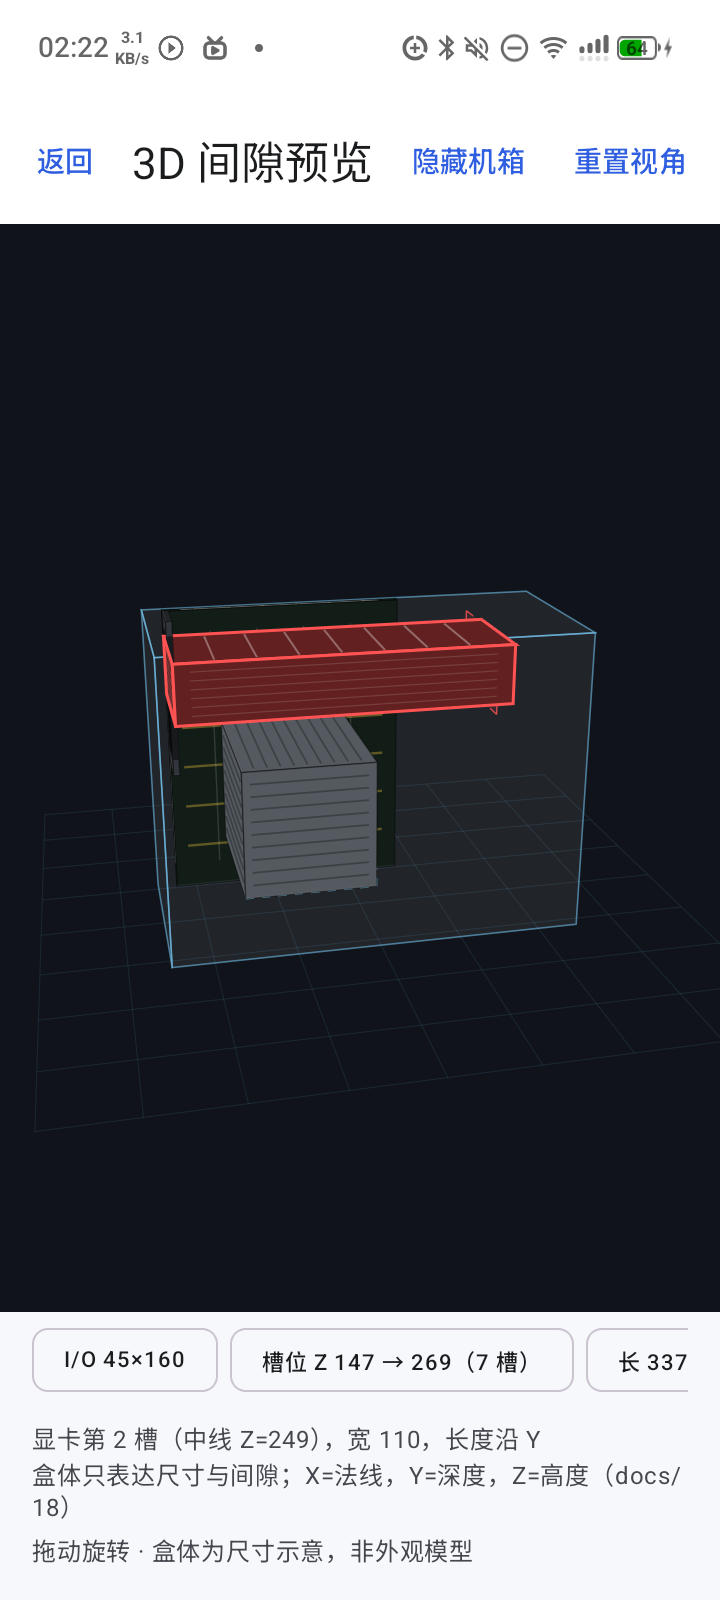
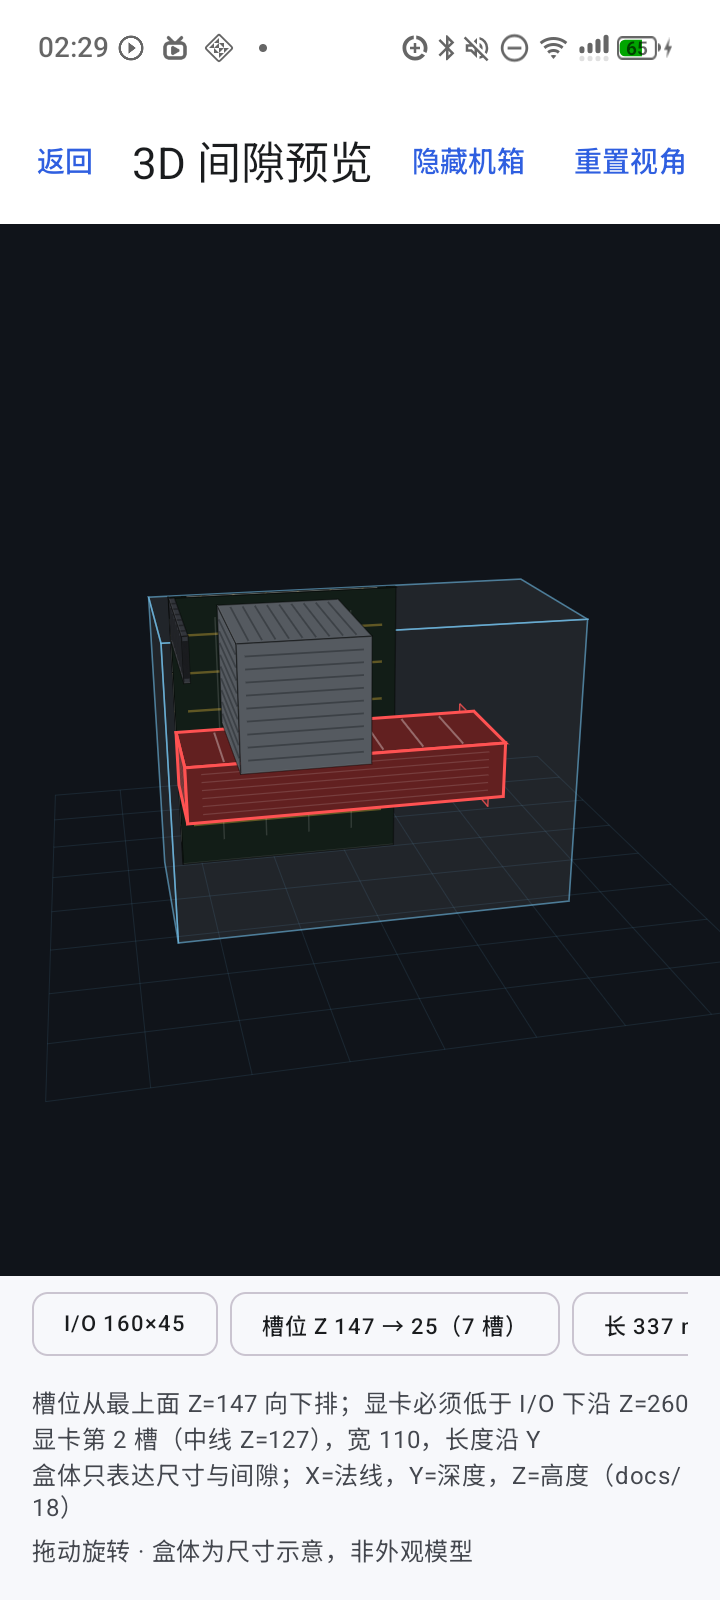
fix(viz): put PCIe slots below IO and place CPU cooler at board top
IO was 160 tall with slots running upward, so the GPU overlapped the rear IO. Slots now start at Z=147 and go downward; IO is 160x45 at the board top; GPU top is 157 < IO bottom 260. Moves the cooler to the upper board area instead of near the bottom.

diff --git a/ui/src/test/kotlin/pcbuildmate/ui/preview/Scene3dTest.kt b/ui/src/test/kotlin/pcbuildmate/ui/preview/Scene3dTest.kt
@@ -33,9 +33,9 @@ class Scene3dTest {
         val io = scene.boxes.first { it.style == BoxStyle.IO }
         val board = scene.boxes.first { it.style == BoxStyle.BOARD }
 
-        assertEquals(45f, io.size.x, 0.01f, "沿 X 伸出 45")
+        assertEquals(160f, io.size.x, 0.01f, "沿 X 宽 160")
         assertEquals(6f, io.size.y, 0.01f, "Y 厚 6（板面内，故垂直于板）")
-        assertEquals(160f, io.size.z, 0.01f, "Z 高 160")
+        assertEquals(45f, io.size.z, 0.01f, "Z 高 45")
         assertEquals(305f, io.max.z, 0.01f, "与板上沿对齐")
         assertEquals(board.max.x, io.min.x, 0.01f, "从板面起")
     }
@@ -55,10 +55,10 @@ class Scene3dTest {
     fun `gpu sits at the second slot centerline`() {
         val scene = assertNotNull(SceneBuilder.build(revisionWith(gpu = "337", case = "320"), catalogue()))
         val gpu = scene.boxes.first { it.style == BoxStyle.GPU }
-        val expected = SceneBuilder.LAST_SLOT_Z_MM + (SceneBuilder.SLOT_GRID - 2) * SceneBuilder.SLOT_PITCH_MM
+        val expected = SceneBuilder.LAST_SLOT_Z_MM - SceneBuilder.SLOT_PITCH_MM
 
         assertEquals(expected, (gpu.min.z + gpu.max.z) / 2f, 0.01f)
-        assertEquals(248.60f, expected, 0.01f)
+        assertEquals(126.68f, expected, 0.01f)
     }
 
     @Test
@@ -70,10 +70,19 @@ class Scene3dTest {
         val gpu = scene.boxes.first { it.style == BoxStyle.GPU }
 
         assertEquals(170f, board.size.z, 0.01f, "ITX 板高 170")
-        val slot1 = SceneBuilder.LAST_SLOT_Z_MM + (SceneBuilder.SLOT_GRID - 1) * SceneBuilder.SLOT_PITCH_MM
-        assertEquals(268.92f, slot1, 0.01f)
-        assertEquals(slot1, (gpu.min.z + gpu.max.z) / 2f, 0.01f)
-        assertTrue(gpu.max.z > board.max.z, "允许显卡高过 ITX 板顶，不 clamp")
+        val slot1 = SceneBuilder.LAST_SLOT_Z_MM
+        assertEquals(147f, slot1, 0.01f)
+        assertEquals(147f, (gpu.min.z + gpu.max.z) / 2f, 0.01f)
+        assertTrue(gpu.max.z > board.max.z, "3 槽卡高出 170mm 板顶，不 clamp")
+    }
+
+    @Test
+    fun `gpu sits below the io bottom`() {
+        val scene = assertNotNull(SceneBuilder.build(revisionWith(gpu = "337", case = "320"), catalogue()))
+        val io = scene.boxes.first { it.style == BoxStyle.IO }
+        val gpu = scene.boxes.first { it.style == BoxStyle.GPU }
+
+        assertTrue(gpu.max.z < io.min.z, "显卡必须低于 I/O 下沿：gpu=${gpu.max.z}, io=${io.min.z}")
     }
 
     @Test
@@ -111,6 +120,7 @@ class Scene3dTest {
         val cooler = scene.boxes.first { it.style == BoxStyle.COOLER }
 
         assertEquals(160f, cooler.size.x, 0.01f)
+        assertTrue(cooler.min.z > 100f, "CPU 散热应在板上部，实际 ${cooler.min.z}")
         assertTrue(!cooler.conflict)
     }
 

diff --git a/ui/src/main/kotlin/pcbuildmate/ui/preview/Scene3d.kt b/ui/src/main/kotlin/pcbuildmate/ui/preview/Scene3d.kt
@@ -67,9 +67,9 @@ object SceneBuilder {
     const val SLOT_PITCH_MM = 20.32f
     const val LAST_SLOT_Z_MM = 147f
     const val SLOT_GRID = 7
-    const val IO_WIDTH_MM = 45f      // 沿 X（板法线方向伸出）
+    const val IO_WIDTH_MM = 160f     // 沿 X（板面横向）
     const val IO_THICKNESS_MM = 6f   // 沿 Y
-    const val IO_HEIGHT_MM = 160f    // 沿 Z，从板上沿往下
+    const val IO_HEIGHT_MM = 45f     // 沿 Z（板面上沿往下 45）
     const val GPU_WIDTH_MM = 110f    // 沿 X
     const val GPU_SLOT_INDEX = 2
 
@@ -107,7 +107,7 @@ object SceneBuilder {
             style = BoxStyle.BOARD,
         )
 
-        // I/O：从板上沿往下 160，沿 X 伸出 45，Y 厚 6（垂直于主板）
+        // I/O：贴板上沿，沿 X 宽 160，垂直板面厚 6，沿 Z 高 45
         boxes += Box3(
             id = "io",
             label = "后置 I/O",
@@ -117,15 +117,16 @@ object SceneBuilder {
         )
         labels += DimLabel("I/O ${fmt(IO_WIDTH_MM)}×${fmt(IO_HEIGHT_MM)}", Tone.MUTED)
 
-        // 槽位网格：最后一个槽 147，向上 20.32；板型只取上面 N 个
-        fun slotZ(k: Int): Float = LAST_SLOT_Z_MM + (SLOT_GRID - k) * SLOT_PITCH_MM
+        // 槽位网格：最上面一槽 147，向下每槽 20.32；板型只取上面 N 个
+        fun slotZ(k: Int): Float = LAST_SLOT_Z_MM - (k - 1) * SLOT_PITCH_MM
         val usedSlots = (1..slotCount).map { slotZ(it) }
         labels += DimLabel(
-            "槽位 Z ${fmt(usedSlots.last())} → ${fmt(usedSlots.first())}（$slotCount 槽）",
+            "槽位 Z ${fmt(usedSlots.first())} → ${fmt(usedSlots.last())}（$slotCount 槽）",
             Tone.MUTED,
         )
+        notes += "槽位从最上面 Z=${fmt(slotZ(1))} 向下排；显卡必须低于 I/O 下沿 Z=${fmt(boardHeight - IO_HEIGHT_MM)}"
         if (slotCount < SLOT_GRID) {
-            notes += "该板型只有 $slotCount 个槽位；ITX 的单槽位于 Z=${fmt(slotZ(1))}，允许超出 170mm 板高"
+            notes += "该板型只有 $slotCount 个槽位；ITX 单槽位于 Z=${fmt(slotZ(1))}"
         }
 
         // 显卡
@@ -174,9 +175,10 @@ object SceneBuilder {
         val coolerHeight = cooler?.num("heightMm")
         if (coolerHeight != null) {
             val overHeight = coolerHeight > caseCoolerHeight
-            val z0 = boardHeight - 250f
+            // CPU 散热在板上部（I/O 下方、Y 向前），高度沿 X
+            val z0 = boardHeight - 140f
             val z1 = z0 + 130f
-            val y0 = 55f
+            val y0 = 50f
             boxes += Box3(
                 id = "cooler",
                 label = "散热 ${cooler.text("model")}",

diff --git a/docs/18-3d-coordinates.md b/docs/18-3d-coordinates.md
@@ -20,8 +20,8 @@
 | 板厚 | 6（X -6..0） |
 | PCIe 槽距 | 20.32 |
 | 最后一槽中线 | **147** |
-| 槽位网格 | 7 格，`slot(k) = 147 + (7-k)×20.32` |
-| I/O | X 0..45，Y 0..6，Z 板上沿往下 160 |
+| 槽位网格 | 7 格，**从最上面 Z=147 向下**：`slot(k) = 147 - (k-1)×20.32` |
+| I/O | X 0..160（宽），Y 0..6（厚），Z 板上沿往下 45（高） |
 | 显卡宽（X） | 110 |
 | 机箱上沿 | = 主板上沿 |
 
@@ -29,29 +29,30 @@
 
 | 板型 | 高 Z | 深 Y | 槽数 | 取的槽 |
 |---|---:|---:|---:|---|
-| ATX | 305 | 244 | 7 | 268.92 → 147.00 |
-| mATX | 244 | 244 | 4 | 207.96 → 147.00 |
-| ITX | 170 | 170 | 1 | **268.92**（高出板顶 98.92，允许 Z 为负/出板，不 clamp） |
+| ATX | 305 | 244 | 7 | 147.00 → 25.08 |
+| mATX | 244 | 244 | 4 | 147.00 → 86.04 |
+| ITX | 170 | 170 | 1 | **147.00**（3 槽卡会高出 170 板顶，允许，不 clamp） |
 
 ## 18.4 起止坐标（ATX，337mm 卡，第 2 槽）
 
 | 对象 | X | Y | Z |
 |---|---|---|---|
 | 主板 | -6 → 0 | 0 → 244 | 0 → 305 |
-| 后置 I/O | 0 → 45 | 0 → 6 | 145 → 305 |
-| 第 1 槽中线 | — | — | 268.92 |
-| 第 2 槽中线 | — | — | 248.60 |
-| 337mm 显卡（3 槽） | 0 → 110 | 0 → 337 | 218.28 → 278.92 |
-| 机箱限长面 | 0 → 110 | 320 | 218.28 → 278.92 |
-| 160mm 散热 | 0 → 160 | 55 → 185 | 55 → 185 |
-| 侧板限高面 | 160 | 55 → 185 | 55 → 185 |
+| 后置 I/O | 0 → 160 | 0 → 6 | 260 → 305 |
+| 第 1 槽中线 | — | — | 147.00 |
+| 第 2 槽中线 | — | — | 126.68 |
+| 337mm 显卡（3 槽） | 0 → 110 | 0 → 337 | 96.18 → 157.18 |
+| 机箱限长面 | 0 → 110 | 320 | 96.18 → 157.18 |
+| 160mm 散热 | 0 → 160 | 50 → 180 | 165 → 295 |
+| 侧板限高面 | 160 | 50 → 180 | 165 → 295 |
 | 机箱允许空间 | -10 → 180 | -20 → 390 | 0 → 305（上沿对齐） |
 
 ## 18.5 规则
 
 - 机箱默认透明（ghost），可隐藏；
 - 限制面半透明 + 虚线，超出变红；
-- ITX 单槽在顶部网格位置，显卡可以高出板顶，不 clamp；
+- 槽位从 147 向下排，GPU 必须低于 I/O 下沿 260；实测 GPU 顶 157.18；
+- ITX 单槽在 147，3 槽卡高出 170 板顶，不 clamp；
 - 纹理用面内双线性映射，不做风扇贴图；
 - 机箱上沿 = 主板上沿，I/O 左上角与板上沿对齐。
 

diff --git a/docs/17-3d-preview.md b/docs/17-3d-preview.md
@@ -46,7 +46,7 @@
 | 盒体 | 尺寸（X 法线 / Y 深度 / Z 高） | 数据 | 可隐藏 |
 |---|---|---|---|
 | 主板 | 6 × 244 × 305（板体 X -6..0） | `formFactor` | ❌ |
-| 后置 I/O | 45 × 6 × 160，从板上沿往下 | 常量（垂直主板） | ❌ |
+| 后置 I/O | 160 × 6 × 45，贴板上沿（垂直主板） | 常量 | ❌ |
 | 显卡 | 110 × `lengthMm` × `thicknessMm` | `lengthMm`/`thicknessMm` | ❌ |
 | 散热 | `heightMm` × 130 × 130 | `heightMm` | ❌ |
 | 机箱允许空间 | 透明 ghost，上沿对齐主板 | 限长/限高估算 | ✅ |
@@ -55,9 +55,9 @@
 
 ## 17.5 场景
 
-- 槽位网格：最后一槽 Z=147，向上 20.32，共 7 格；板型取上面 N 个；
-- ITX 单槽在 Z=268.92，允许高出 170mm 板顶，不 clamp；
-- 显卡第 2 槽（ATX 中线 248.60），长沿 Y、宽沿 X、厚沿 Z；
+- 槽位网格：最上面一槽 Z=147，向下 20.32，共 7 格；板型取上面 N 个；
+- 显卡第 2 槽（ATX 中线 126.68），长沿 Y、宽沿 X、厚沿 Z；GPU 顶 157.18 < I/O 下沿 260；
+- ITX 单槽在 Z=147，3 槽卡会高出 170mm 板顶，不 clamp；
 - 限长面 Y=320，限高面 X=160；
 - 详见 [docs/18](18-3d-coordinates.md)。
 
